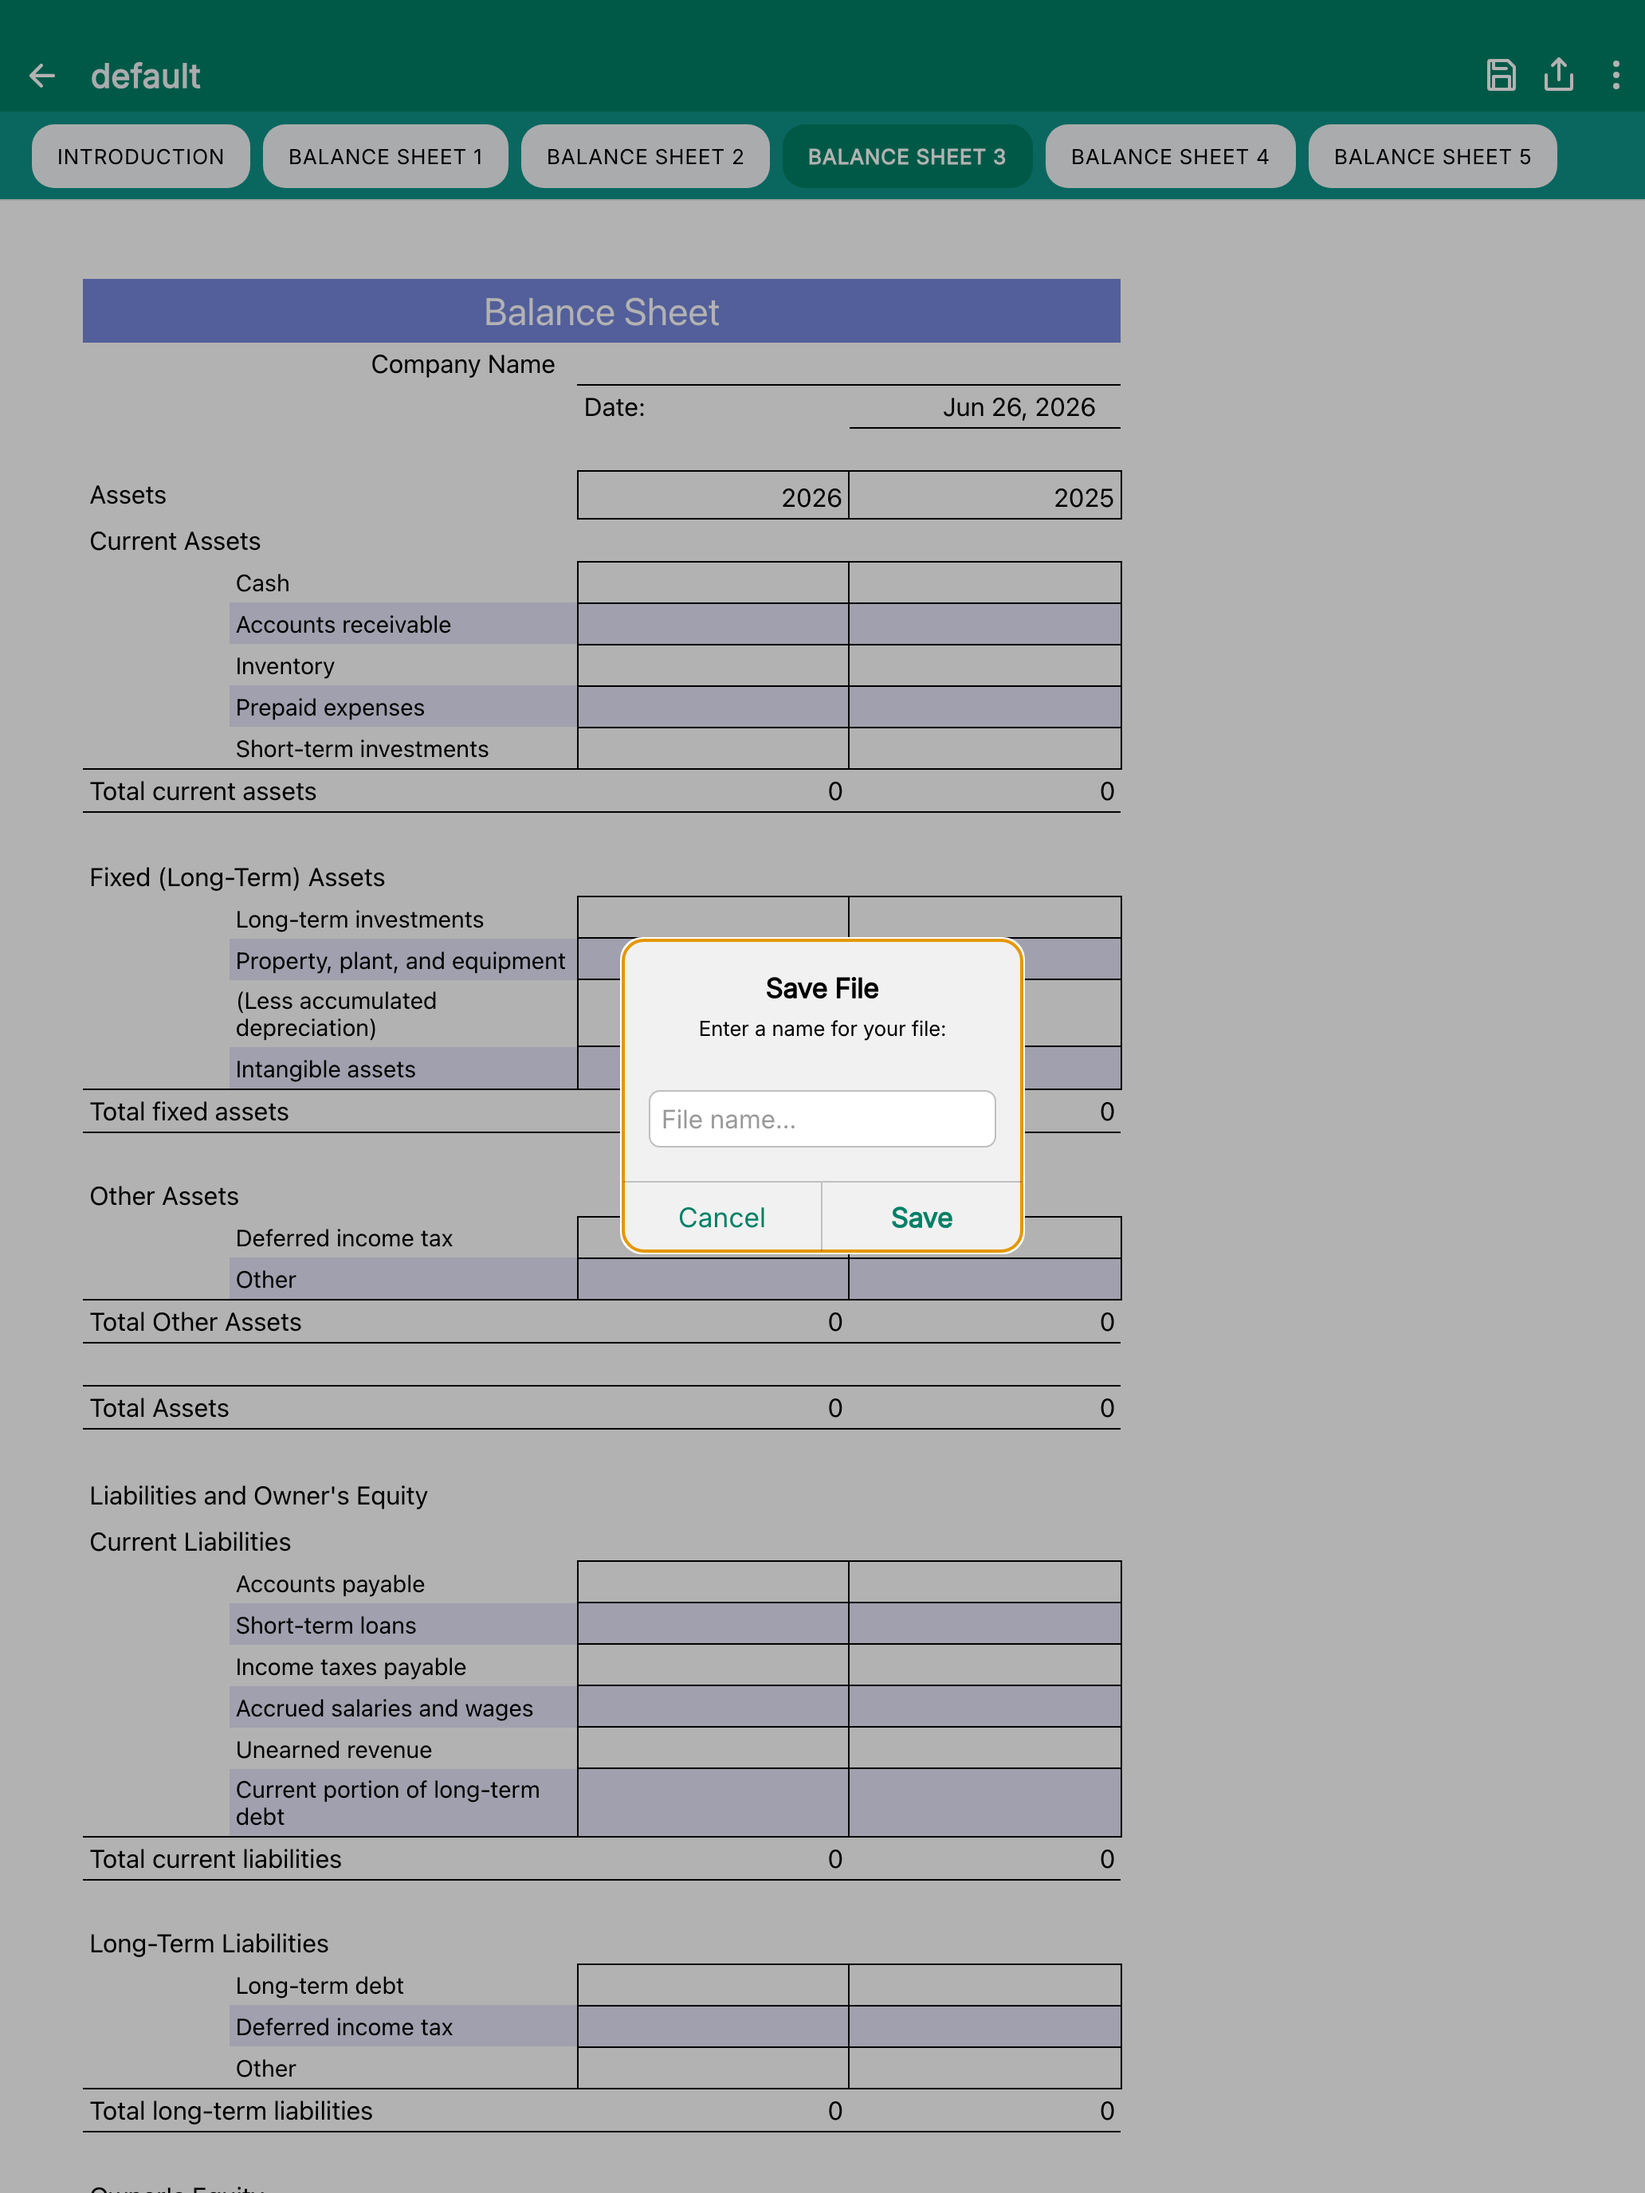
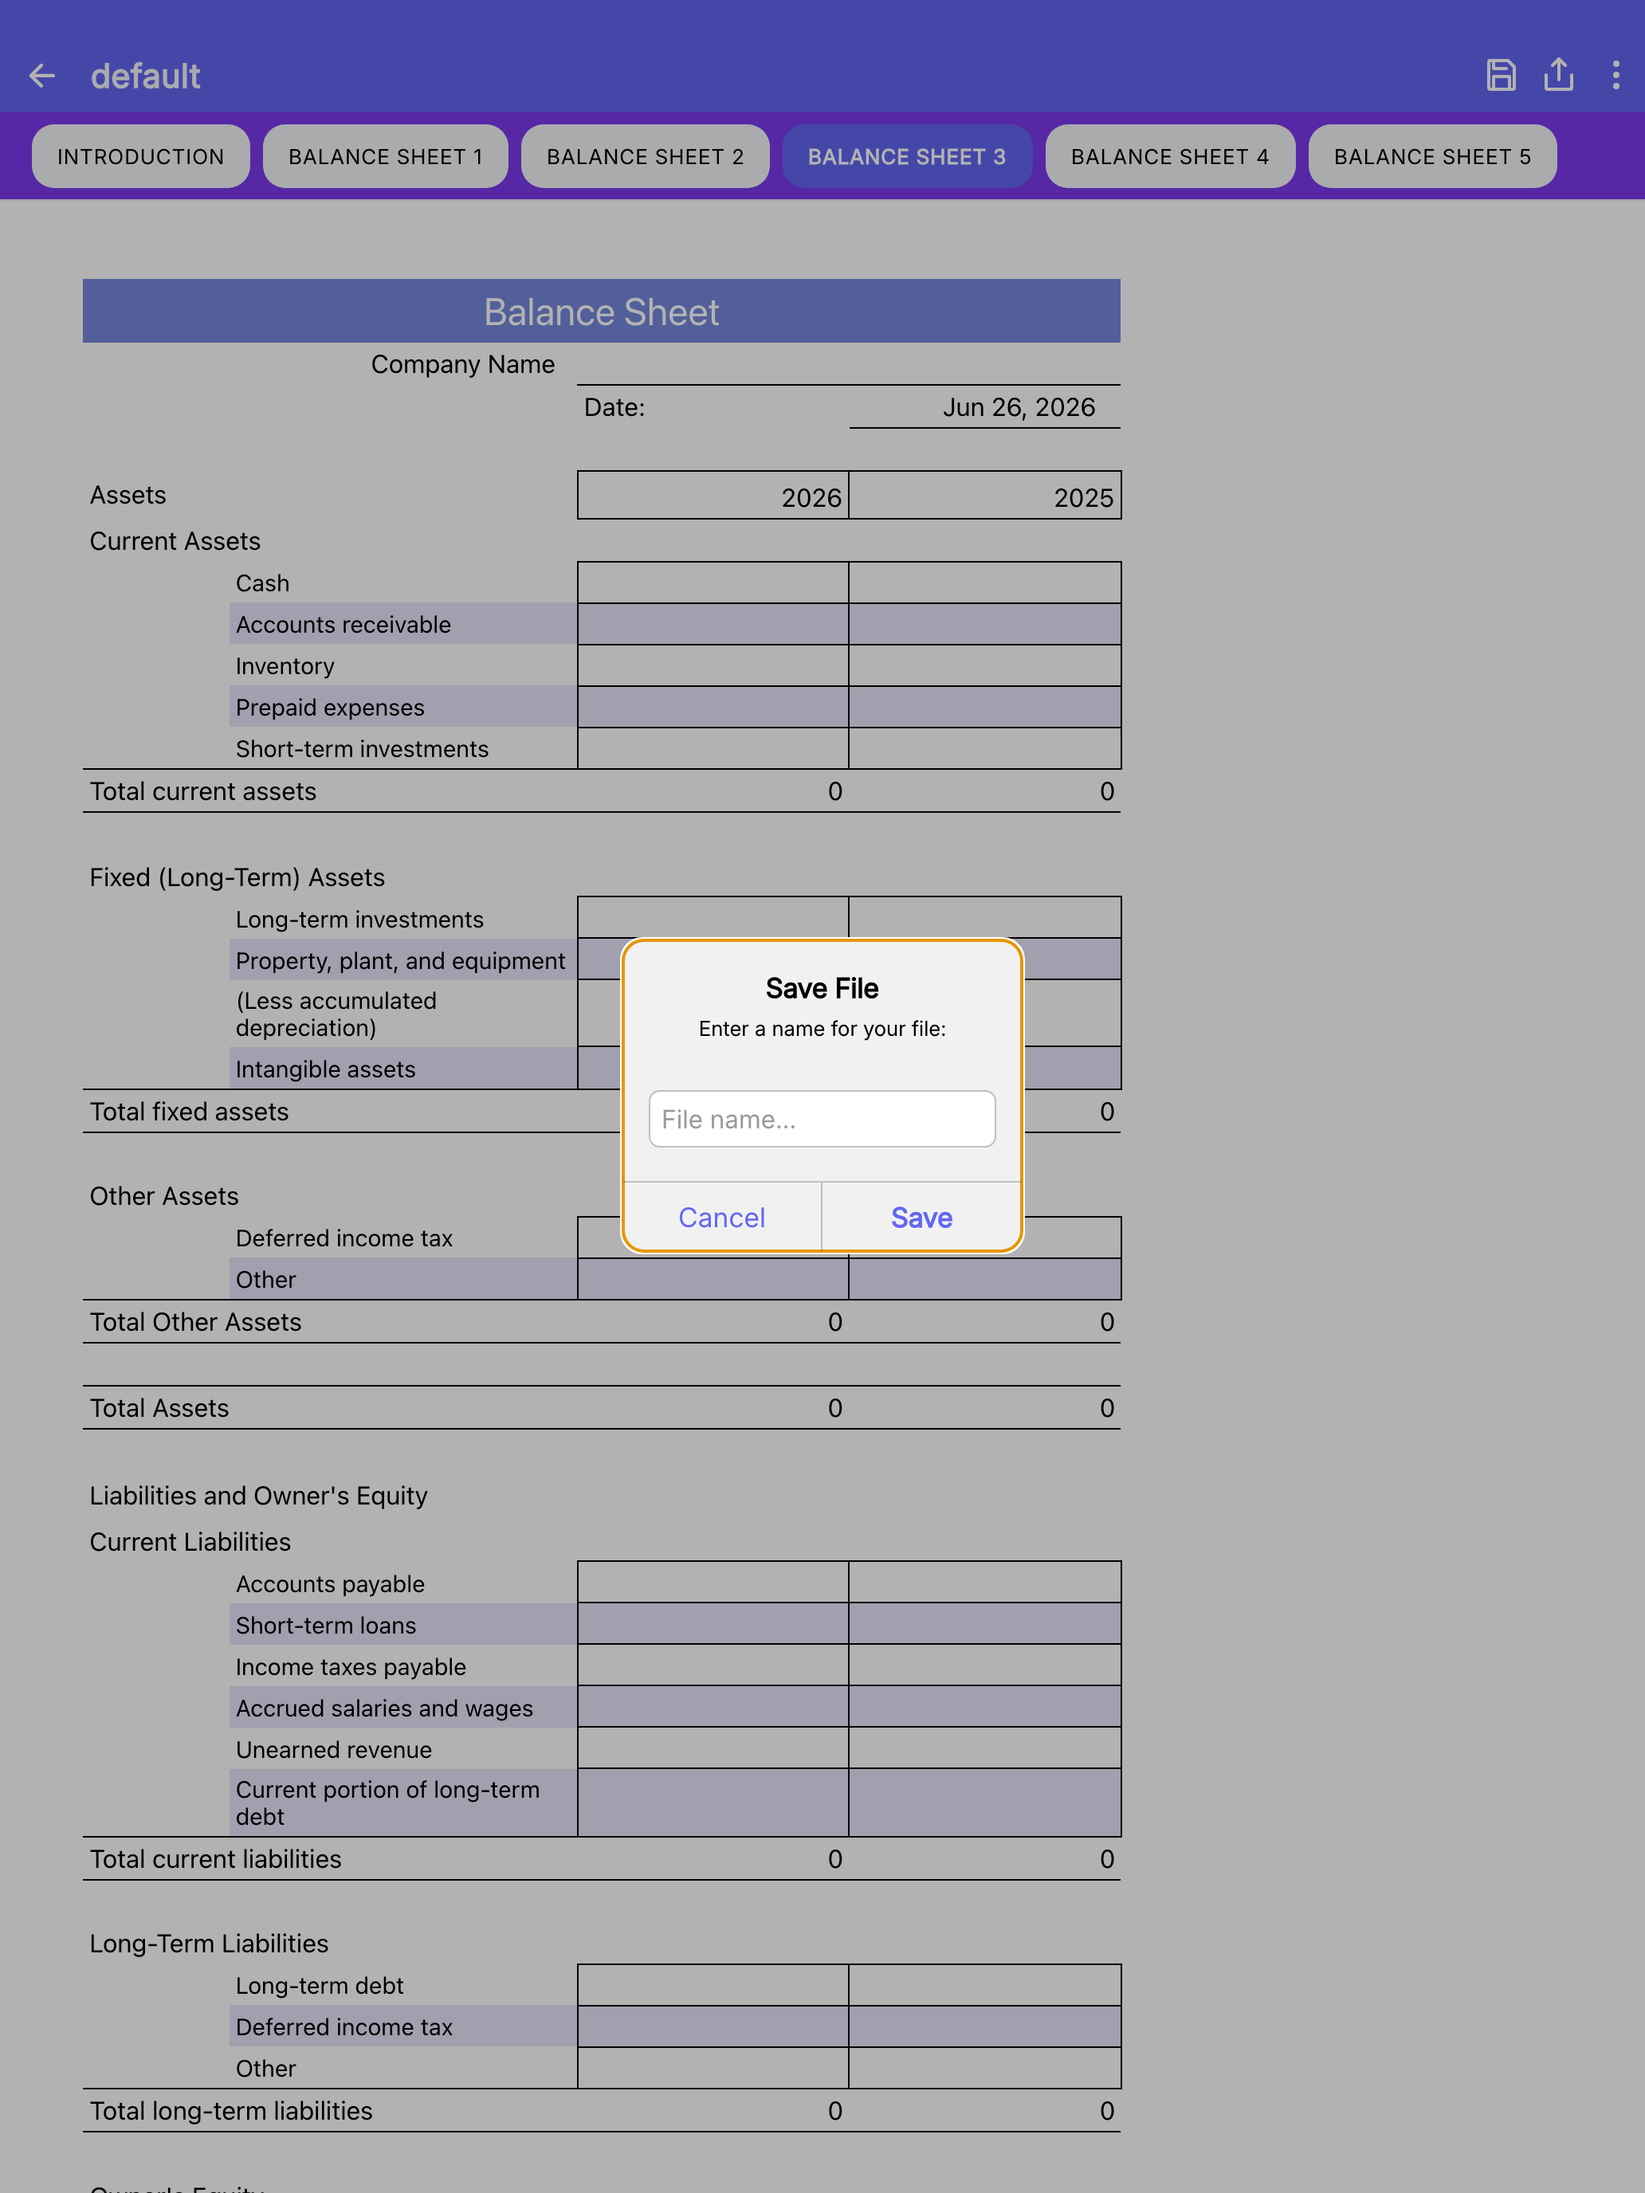
Simplify files list, purple theme, and refresh App Store screenshots.
Remove extra file columns and Skip Intro, switch primary color to purple,
and regenerate iPhone and iPad screenshots for the updated UI.

Changed region(s): [[0.0, 0.0, 1.0, 0.0938], [0.4341, 0.5312, 0.4651, 0.5625]]

diff --git a/src/components/Files/Files.tsx b/src/components/Files/Files.tsx
@@ -680,9 +680,6 @@ const Files: React.FC<{
                   <thead>
                     <tr style={{ borderBottom: '1px solid #e2e8f0' }}>
                       <th style={{ padding: '8px 14px', textAlign: 'left', fontSize: '14px', fontWeight: '600', color: '#64748b', minWidth: '160px' }}>File Name</th>
-                      <th style={{ padding: '8px 14px', textAlign: 'left', fontSize: '14px', fontWeight: '600', color: '#64748b' }}>Customer</th>
-                      <th style={{ padding: '8px 14px', textAlign: 'left', fontSize: '14px', fontWeight: '600', color: '#64748b' }}>Amount</th>
-                      <th style={{ padding: '8px 14px', textAlign: 'left', fontSize: '14px', fontWeight: '600', color: '#64748b', minWidth: '150px' }}>Date</th>
                       <th style={{ padding: '8px 14px', textAlign: 'center', fontSize: '14px', fontWeight: '600', color: '#64748b' }}>Actions</th>
                     </tr>
                   </thead>
@@ -731,18 +728,6 @@ const Files: React.FC<{
                               }}>{meta.invoiceId}</span>
                             </div>
                           </td>
-                          <td style={{ padding: '8px 14px', color: '#475569', fontSize: '14px' }}>
-                            <div style={{ display: 'flex', flexDirection: 'column' }}>
-                              <span style={{ fontWeight: '500' }}>{meta.customer}</span>
-                              {(meta.phone) && (
-                                <span style={{ fontSize: '11px', color: '#94a3b8', marginTop: '2px' }}>
-                                  {[meta.phone].filter(Boolean).join(' • ')}
-                                </span>
-                              )}
-                            </div>
-                          </td>
-                          <td style={{ padding: '8px 14px', color: '#475569', fontSize: '14px' }}>{meta.amount}</td>
-                          <td style={{ padding: '8px 14px', color: '#475569', fontSize: '14px' }}>{meta.date}</td>
                           <td style={{ padding: '8px 14px', textAlign: 'center' }}>
                             <div style={{ display: 'flex', gap: '8px', justifyContent: 'center' }}>
                               <div
@@ -752,13 +737,13 @@ const Files: React.FC<{
                                 }}
                                 style={{
                                   cursor: 'pointer',
-                                  color: '#3b82f6',
+                                  color: '#6366f1',
                                   padding: '6px',
                                   borderRadius: '4px',
                                   display: 'flex',
                                   alignItems: 'center',
                                   justifyContent: 'center',
-                                  background: '#eff6ff'
+                                  background: '#eef2ff'
                                 }}
                                 title="Rename"
                               >

diff --git a/src/pages/OnboardingPage.tsx b/src/pages/OnboardingPage.tsx
@@ -14,7 +14,6 @@ import { useStatusBar, StatusBarPresets } from '../hooks/useStatusBar';
 import {
   ONBOARDING_SLIDES,
   ONBOARDING_STORAGE_KEY,
-  BALANCE_SHEET_LOGO,
 } from '../constants/onboarding';
 import './OnboardingPage.css';
 
@@ -64,14 +63,6 @@ const OnboardingPage: React.FC<OnboardingPageProps> = ({ onComplete }) => {
     <IonPage className="onboarding-page light">
       <IonContent fullscreen className="onboarding-content">
         <div className="onboarding-main">
-          {slideIndex === 0 && (
-            <div className="onboarding-top-actions">
-              <IonButton fill="clear" onClick={completeOnboarding}>
-                Skip Intro
-              </IonButton>
-            </div>
-          )}
-
           <AnimatePresence mode="wait">
             <motion.div
               key={slide.id}
@@ -99,12 +90,6 @@ const OnboardingPage: React.FC<OnboardingPageProps> = ({ onComplete }) => {
                     <div className="welcome-features">
                       {slide.features.map((feature) => (
                         <div className="feature-item" key={feature}>
-                          <img
-                            src={BALANCE_SHEET_LOGO}
-                            alt=""
-                            className="feature-check-icon"
-                            aria-hidden="true"
-                          />
                           <span>{feature}</span>
                         </div>
                       ))}
@@ -128,13 +113,7 @@ const OnboardingPage: React.FC<OnboardingPageProps> = ({ onComplete }) => {
 
           <div className="onboarding-footer">
             {isLastSlide ? (
-              <IonButton expand="block" className="action-btn start-planning-btn" onClick={completeOnboarding}>
-                <img
-                  src={BALANCE_SHEET_LOGO}
-                  alt=""
-                  className="start-planning-icon"
-                  aria-hidden="true"
-                />
+              <IonButton expand="block" color="primary" className="action-btn start-planning-btn" onClick={completeOnboarding}>
                 Start App
               </IonButton>
             ) : (

diff --git a/src/theme/variables.css b/src/theme/variables.css
@@ -54,20 +54,20 @@ ion-text {
   --ion-font-family: 'Inter', -apple-system, BlinkMacSystemFont, 'Segoe UI', Roboto, Oxygen, Ubuntu, Cantarell, 'Open Sans', 'Helvetica Neue', sans-serif;
   font-family: var(--ion-font-family);
   /** primary **/
-  --ion-color-primary: #008066;
-  --ion-color-primary-rgb: 0, 128, 102;
+  --ion-color-primary: #6366f1;
+  --ion-color-primary-rgb: 99, 102, 241;
   --ion-color-primary-contrast: #ffffff;
   --ion-color-primary-contrast-rgb: 255, 255, 255;
-  --ion-color-primary-shade: #007059;
-  --ion-color-primary-tint: #1ab295;
+  --ion-color-primary-shade: #4f46e5;
+  --ion-color-primary-tint: #818cf8;
 
   /** secondary **/
-  --ion-color-secondary: #0d9488;
-  --ion-color-secondary-rgb: 13, 148, 136;
+  --ion-color-secondary: #7c3aed;
+  --ion-color-secondary-rgb: 124, 58, 237;
   --ion-color-secondary-contrast: #ffffff;
   --ion-color-secondary-contrast-rgb: 255, 255, 255;
-  --ion-color-secondary-shade: #0f766e;
-  --ion-color-secondary-tint: #2dd4bf;
+  --ion-color-secondary-shade: #6d28d9;
+  --ion-color-secondary-tint: #8b5cf6;
 
   /** tertiary **/
   --ion-color-tertiary: #6366f1;

diff --git a/src/pages/OnboardingPage.css b/src/pages/OnboardingPage.css
@@ -138,12 +138,7 @@
 }
 
 .onboarding-top-actions {
-    display: flex;
-    justify-content: space-between;
-    align-items: center;
-    padding: calc(max(env(safe-area-inset-top, 0px), 24px) + 8px) 16px 0;
-    max-width: 480px;
-    margin: 0 auto;
+    display: none;
 }
 
 .onboarding-nav-btn {
@@ -223,7 +218,6 @@
 .feature-item {
     display: flex;
     align-items: center;
-    gap: 16px;
     padding: 18px 20px;
     background: #ffffff;
     border-radius: 16px;
@@ -236,13 +230,6 @@
 }
 
 
-
-.feature-check-icon {
-    width: 20px;
-    height: 20px;
-    flex-shrink: 0;
-    object-fit: contain;
-}
 
 /* Form Styles */
 .onboarding-form {
@@ -656,7 +643,6 @@
     display: flex;
     align-items: center;
     justify-content: center;
-    gap: 10px;
 }
 
 .next-btn::part(native) {
@@ -664,12 +650,4 @@
     align-items: center;
     justify-content: center;
     gap: 10px;
-}
-
-.start-planning-icon {
-    width: 28px;
-    height: 28px;
-    border-radius: 7px;
-    object-fit: cover;
-    flex-shrink: 0;
 }

diff --git a/src/utils/balance-sheet-storage-reset.ts b/src/utils/balance-sheet-storage-reset.ts
@@ -2,7 +2,7 @@ import { Preferences } from '@capacitor/preferences';
 import { ONBOARDING_STORAGE_KEY } from '../constants/onboarding';
 
 const STORAGE_VERSION_KEY = 'balance_sheet_storage_version';
-const CURRENT_STORAGE_VERSION = '9';
+const CURRENT_STORAGE_VERSION = '10';
 
 function clearWebLocalStorage(): void {
   localStorage.clear();

diff --git a/src/components/Icons/EmptyInvoicesIcon.tsx b/src/components/Icons/EmptyInvoicesIcon.tsx
@@ -6,7 +6,7 @@ const EmptyInvoicesIcon: React.FC<{ width?: number; height?: number }> = ({
     height = 120,
 }) => {
     // Colors based on theme (Light)
-    const primaryColor = "#008066";
+    const primaryColor = "#6366f1";
     const secondaryColor = "#f1f5f9";
     const elementColor = "#e2e8f0";
     const paperColor = "#ffffff";

diff --git a/scripts/app-screenshot-automation/capture-screenshots.js b/scripts/app-screenshot-automation/capture-screenshots.js
@@ -39,7 +39,7 @@ async function resetAppState(page) {
   await page.evaluate(() => {
     localStorage.clear();
     sessionStorage.clear();
-    localStorage.setItem('balance_sheet_storage_version', '9');
+    localStorage.setItem('balance_sheet_storage_version', '10');
   });
 }
 
